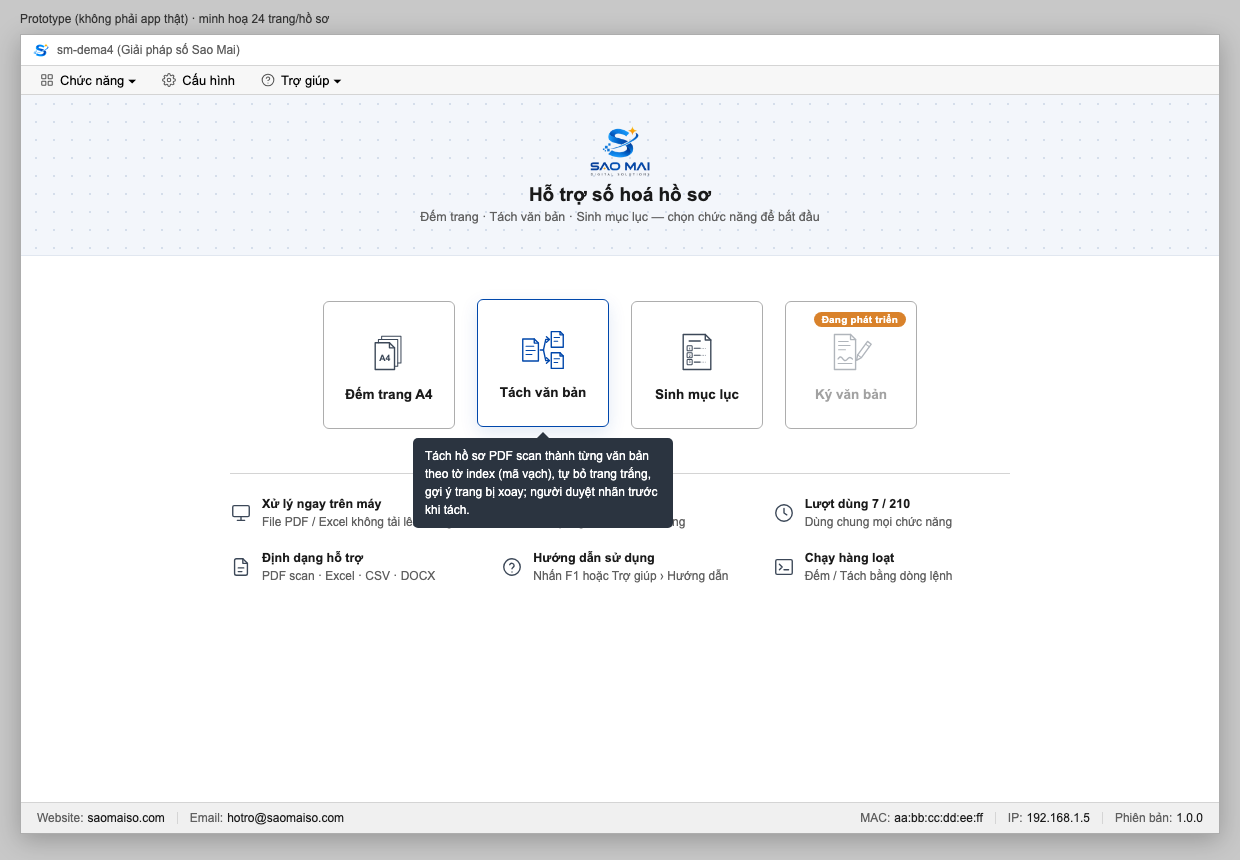
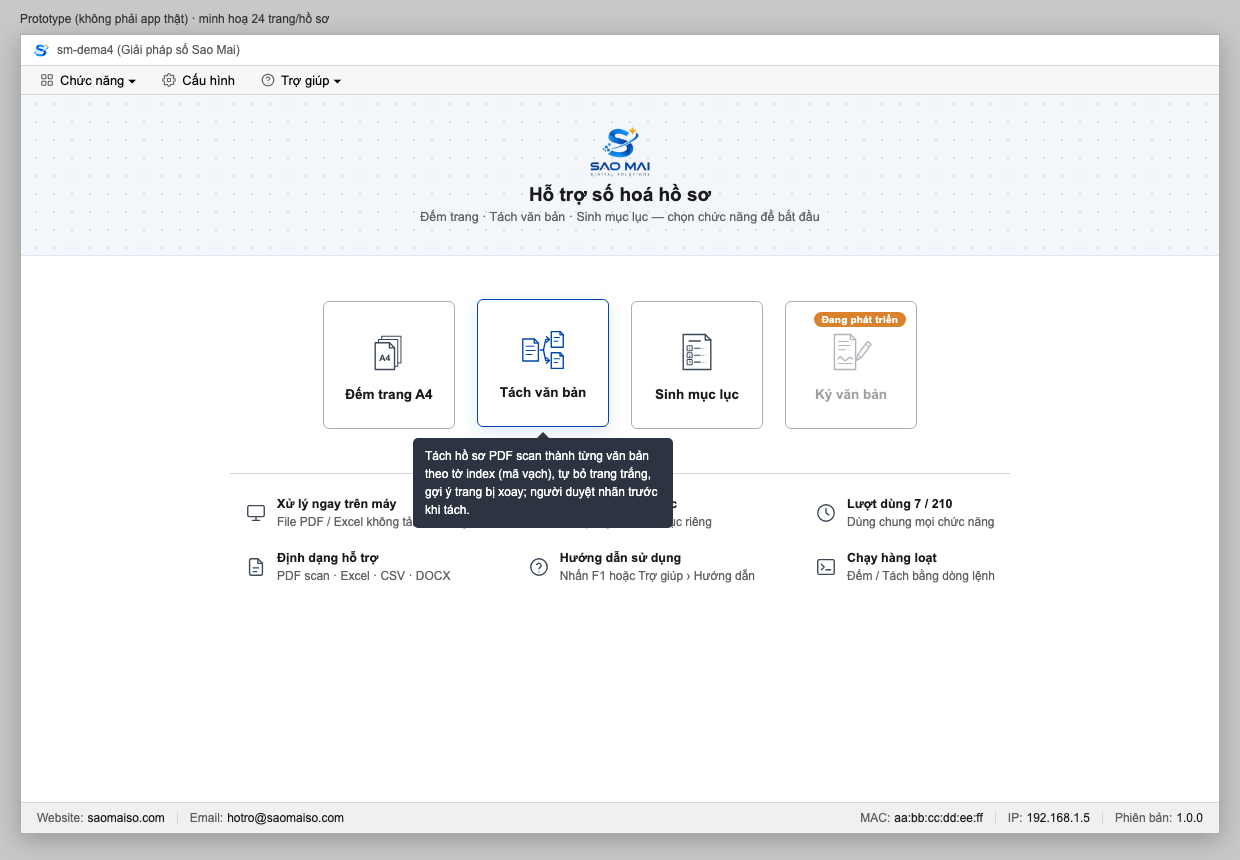
docs(prototype): trang chủ căn giữa lưới thông tin dưới các ô chức năng

diff --git a/plans/261027-1736-tach-van-ban-tu-dong/prototype-tach-van-ban.html b/plans/261027-1736-tach-van-ban-tu-dong/prototype-tach-van-ban.html
@@ -130,7 +130,7 @@
   .tc-day > span > span { padding:0 12px; border-left:1px solid #D5D5D5; line-height:12px; } .tc-day > span > span:first-child { border-left:0; padding-left:0; } .tc-day > span > span:last-child { padding-right:0; }
   .tc-day a { color:var(--chu-phu); text-decoration:none; } .tc-day a:hover { color:var(--cobalt); text-decoration:underline; }
   /* Lưới thông tin dưới các ô chức năng */
-  .tc-diem { display:grid; grid-template-columns:repeat(3, 1fr); gap:20px 34px; margin-top:44px; padding-top:22px; border-top:1px solid var(--vien-nhat); width:780px; }
+  .tc-diem { display:grid; grid-template-columns:repeat(3, max-content); justify-content:center; gap:20px 60px; margin-top:44px; padding-top:22px; border-top:1px solid var(--vien-nhat); width:780px; }
   .tc-diem div { display:flex; align-items:center; gap:10px; font-size:12px; color:var(--chu-phu); line-height:1.4; }
   .tc-diem svg { width:22px; height:22px; flex-shrink:0; fill:none; stroke:#3C4858; stroke-width:1.5; stroke-linecap:round; stroke-linejoin:round; }
   .tc-diem b { color:var(--chu); display:block; font-size:12.5px; }
